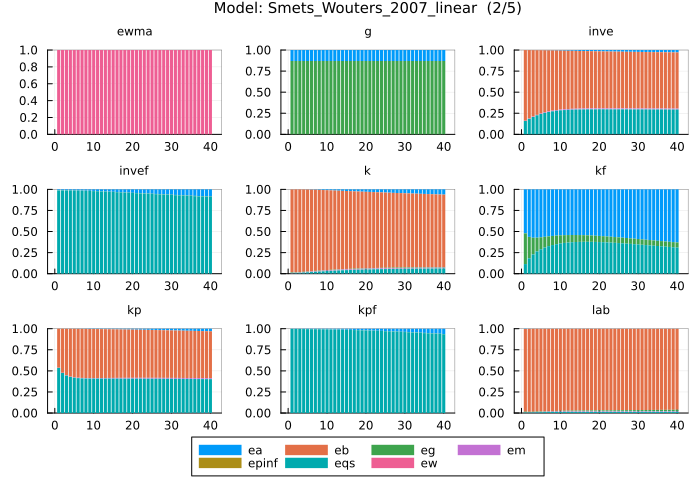
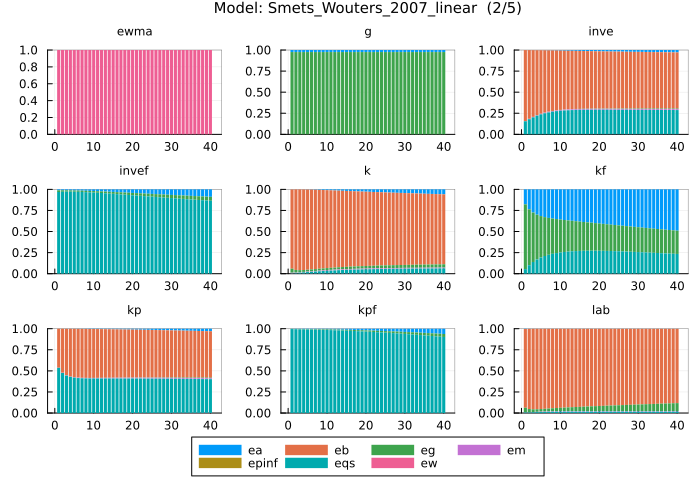
switch from constebeta to changing z_eg so you see a different picture

diff --git a/docs/src/plot_conditional_variance_decomposition.md b/docs/src/plot_conditional_variance_decomposition.md
@@ -260,22 +260,22 @@ plot_fevd(FS2000)
 
 When no parameters are provided, the solution uses the previously defined parameter values. Parameters can be provided as a `Vector` of values, or as a `Vector` or `Tuple` of `Pair`s mapping parameter `Symbol`s or `String`s to values. The solution is recalculated when new parameter values differ from the previous ones.
 
-Start by changing the discount factor `constebeta` to 1:
+Start by changing the discount factor `z_eg` to 1:
 
 ```julia
 plot_fevd(Smets_Wouters_2007_linear,
-    parameters = :constebeta => 1)
+    parameters = :z_eg => 1)
 ```
 
 ![Smets and Wouters 2007 FEVD - different parameter values](../assets/param_change__Smets_Wouters_2007_linear__2.png)
 
 The shock contributions changed as a result of changing the discount factor.
 
-Multiple parameters can also be changed simultaneously. This example changes `constebeta` to 1.5 and `crpi` to 1.75 using a `Tuple` of `Pair`s and define the variables with `Symbol`s:
+Multiple parameters can also be changed simultaneously. This example changes `z_eg` to 1.5 and `crpi` to 1.75 using a `Tuple` of `Pair`s and define the variables with `Symbol`s:
 
 ```julia
 plot_fevd(Smets_Wouters_2007_linear,
-    parameters = (:constebeta => 1.5, :crpi => 1.75))
+    parameters = (:z_eg => 1.5, :crpi => 1.75))
 ```
 
 ![Smets and Wouters 2007 FEVD - multiple parameter changes](../assets/param_change_2__Smets_Wouters_2007_linear__2.png)
@@ -284,7 +284,7 @@ A `Vector` of `Pair`s can also be used:
 
 ```julia
 plot_fevd(Smets_Wouters_2007_linear,
-    parameters = [:constebeta => 1.5, :crpi => 1.75])
+    parameters = [:z_eg => 1.5, :crpi => 1.75])
 ```
 
 Alternatively, use a `Vector` of parameter values in the order they were defined in the model. To obtain them:
@@ -502,14 +502,14 @@ When parameters change, the first-order solution is recomputed; otherwise, it us
 
 ```julia
 plot_fevd(Smets_Wouters_2007_linear,
-    parameters = :constebeta => 1.05,
+    parameters = :z_eg => 1.05,
     verbose = true)
 # Parameter changes: 
-#         constebeta      from 1.5        to 1.05
+#         z_eg    from 1.5        to 1.05
 # New parameters changed the steady state.
-# Block: 1, - Solved using previous solution; residual norm: 1.5065705188588867e-20
-# Block: 2, - Solved using previous solution; residual norm: 4.760958162722386e-18
-# Quadratic matrix equation solver: schur - converged: true in 0 iterations to tolerance: 2.4783378081744145e-15
+# Block: 1, - Solved using previous solution; residual norm: 1.776217186138026e-21
+# Block: 2, - Solved using previous solution; residual norm: 6.83217016268833e-19
+# Quadratic matrix equation solver previous solution has tolerance: 2.25183977733317e-15
 ```
 
 ## Numerical Tolerances
@@ -523,14 +523,14 @@ custom_tol = Tolerances(qme_acceptance_tol = 1e-12,
 
 plot_fevd(Smets_Wouters_2007_linear,
     tol = custom_tol,
-    parameters = :constebeta => 1.055,
+    parameters = :z_eg => 1.055,
     verbose = true)
 # Parameter changes: 
-#         constebeta      from 1.05       to 1.055
+#         z_eg    from 1.05       to 1.055
 # New parameters changed the steady state.
-# Block: 1, - Solved using previous solution; residual norm: 1.5288474949132787e-20
-# Block: 2, - Solved using previous solution; residual norm: 4.8308783964489445e-18
-# Quadratic matrix equation solver: schur - converged: true in 0 iterations to tolerance: 2.2441936684684226e-15
+# Block: 1, - Solved using previous solution; residual norm: 1.776217186138026e-21
+# Block: 2, - Solved using previous solution; residual norm: 6.83217016268833e-19
+# Quadratic matrix equation solver: schur - converged: true in 0 iterations to tolerance: 2.25183977733317e-15
 ```
 
 This is useful when higher precision is needed or when the default tolerances are insufficient for convergence. Use this argument for specific needs or encounter issues with the default solver.
@@ -543,14 +543,14 @@ The quadratic matrix equation solver is used internally when solving the model t
 ```julia
 plot_fevd(Smets_Wouters_2007_linear,
     quadratic_matrix_equation_algorithm = :doubling,
-    parameters = :constebeta => 1.0555,
+    parameters = :z_eg => 1.0555,
     verbose = true)
 # Parameter changes: 
-#         constebeta      from 1.055      to 1.0555
+#         z_eg    from 1.055      to 1.0555
 # New parameters changed the steady state.
-# Block: 1, - Solved using previous solution; residual norm: 1.5310724891217475e-20
-# Block: 2, - Solved using previous solution; residual norm: 4.837862308855699e-18
-# Quadratic matrix equation solver: doubling - converged: true in 10 iterations to tolerance: 3.643122919838728e-16
+# Block: 1, - Solved using previous solution; residual norm: 1.776217186138026e-21
+# Block: 2, - Solved using previous solution; residual norm: 6.83217016268833e-19
+# Quadratic matrix equation solver previous solution has tolerance: 2.25183977733317e-15
 ```
 
 For most use cases, the default `:schur` algorithm is recommended. Use this argument for specific needs or encounter issues with the default solver.
